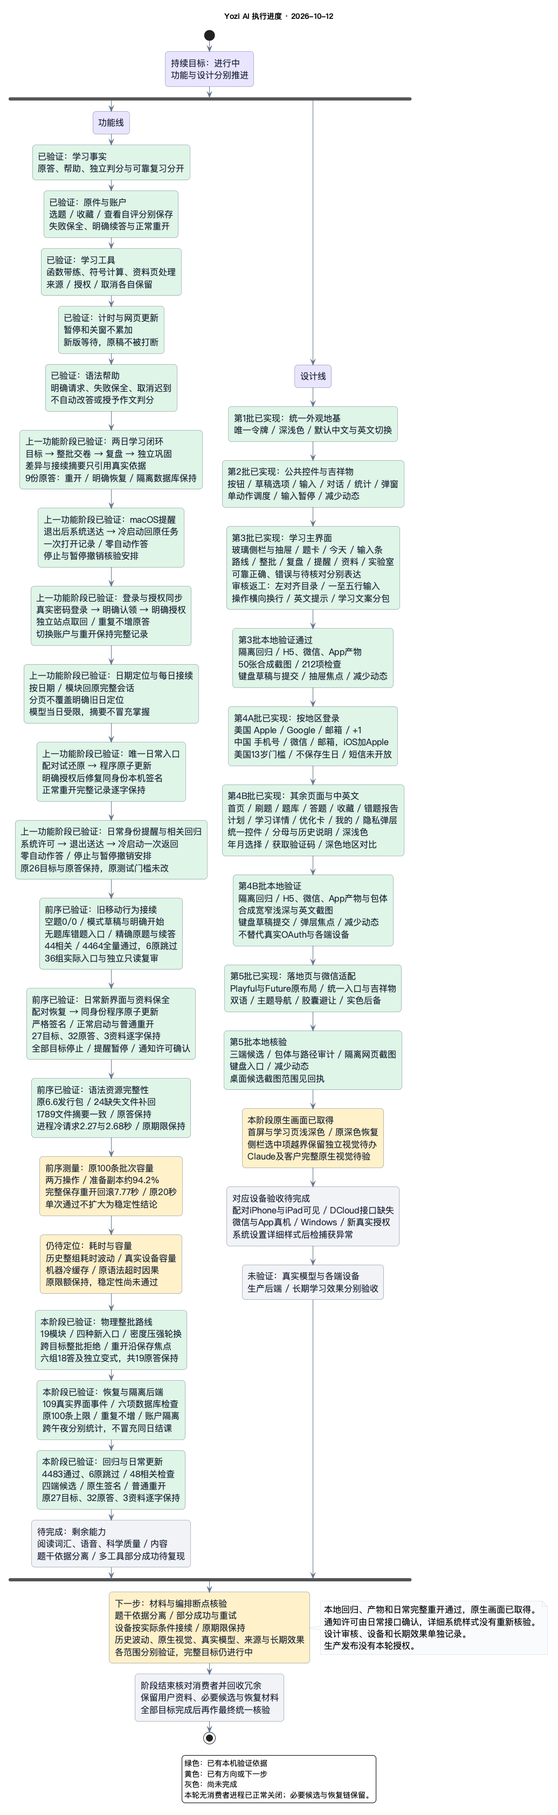
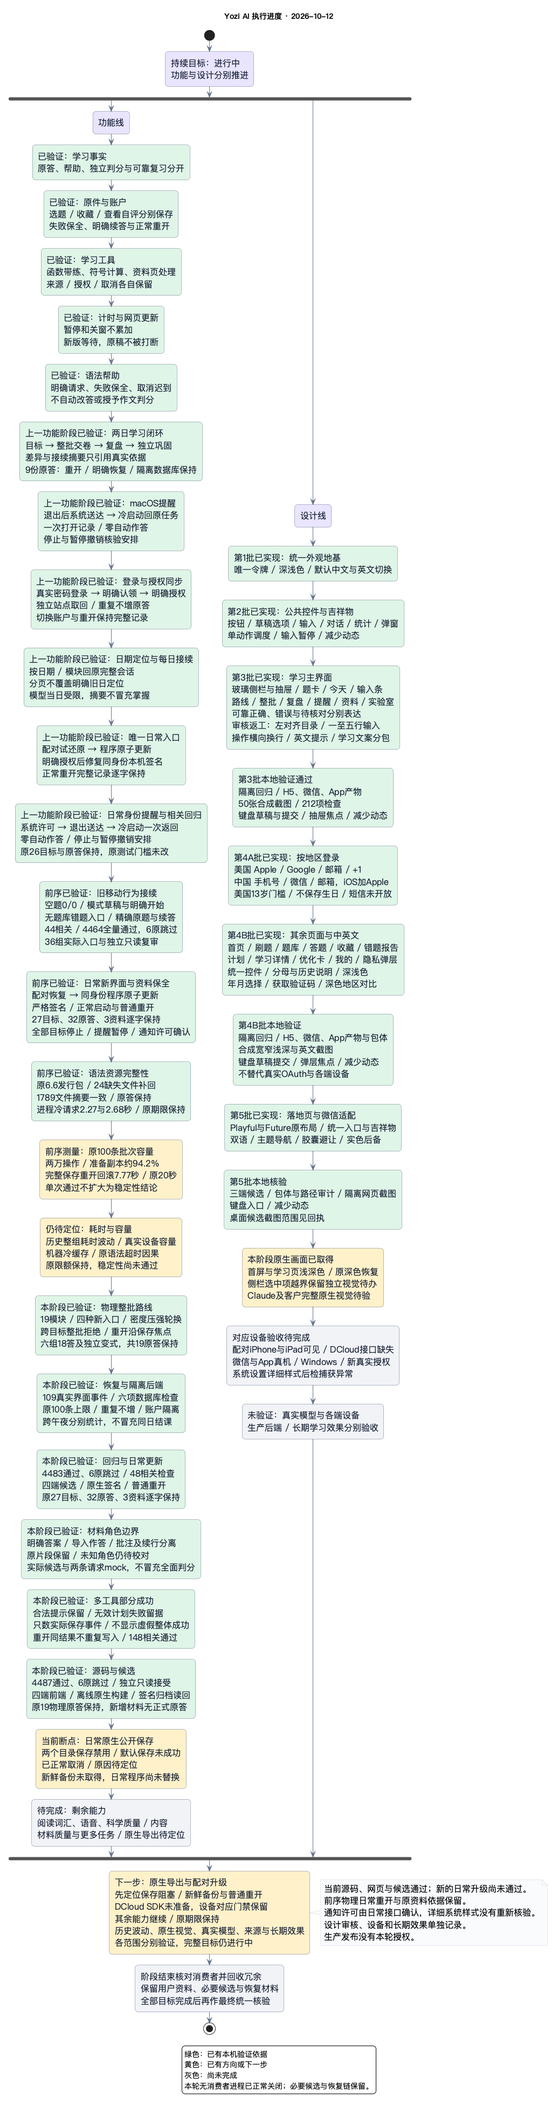
fix: separate material roles and report partial tool execution
Preserve labelled references outside fallback stems and options without changing original materials.
Record failed plans, show only saved operations, and keep recovery retries idempotent.

Verify4487 tests,148 related checks, real material UI and four frontend candidates.
Retain the accepted daily app while public native backup saving is blocked; document the pending gate.

Changed region(s): [[0.0309, 0.0, 0.9585, 0.9988], [0.4019, 0.1873, 0.742, 0.7179]]

diff --git a/tests/unit/learning-material-store.spec.js b/tests/unit/learning-material-store.spec.js
@@ -546,6 +546,68 @@ describe('私人资料和实际 Store 纵向闭环', () => {
     });
     expect(candidate.uncertainties).toHaveLength(1);
   });
+  it('无题干标签时保留原资料，候选题干与选项不混入明确答案、作答及批注区域', () => {
+    const segment = {
+      content:
+        '求速度。\nA.3m/s\nB.4m/s\n答案：PRIVATE_ANSWER\nC.答案区域中的选项\n补充答案依据\n我答：PRIVATE_ATTEMPT\n教师批注：PRIVATE_ANNOTATION',
+      reviewRequired: false
+    };
+    const original = segment.content;
+    const candidate = structureMaterialCandidate(segment);
+    expect(candidate).toMatchObject({
+      prompt: '求速度。\nA.3m/s\nB.4m/s',
+      options: ['A.3m/s', 'B.4m/s'],
+      reference: 'PRIVATE_ANSWER',
+      userAnswer: 'PRIVATE_ATTEMPT',
+      annotation: 'PRIVATE_ANNOTATION',
+      rolesConfirmed: false
+    });
+    expect(segment.content).toBe(original);
+    expect(structureMaterialCandidate({ content: '答案：PRIVATE_ONLY' }).prompt).toBe('');
+  });
+  it.each(['', '题目：'])('候选%s题干发送边界保留来源，独立参考、导入作答和批注不进入模型请求', async (label) => {
+    uni.setStorageSync('EXAM_USER_ID', 'material-context-owner');
+    uni.setStorageSync('EXAM_TOKEN', 'isolated-placeholder-token');
+    const store = useConversationLearningStore();
+    store.start('理解速度');
+    const text = `${label}求速度。\nA.3m/s\nB.4m/s\n答案：PRIVATE_ANSWER\n我答：PRIVATE_ATTEMPT\n教师批注：PRIVATE_ANNOTATION`;
+    store.importText(text);
+    const material = store.state.materials.at(-1);
+    const segment = material.segments[0];
+    const candidate = structureMaterialCandidate(segment);
+    store.structureQuestion(material.id, { ...candidate, segmentId: segment.id, type: 'choice' });
+    store.modelId = 'explicit-model';
+    store.selectedMode = 'cloud';
+    store.sharingAllowed = true;
+    const transport = vi.spyOn(uni, 'request').mockImplementation((options) => {
+      const payload = options.data;
+      expect(payload.learningContext.question).toMatchObject({
+        prompt: candidate.prompt,
+        options: ['A.3m/s', 'B.4m/s'],
+        source: { materialId: material.id, segmentId: segment.id, kind: 'private_material' }
+      });
+      expect(JSON.stringify(payload)).not.toContain('PRIVATE_');
+      options.success({ data: { success: true, data: { message: '先确定时间与距离的单位。', tools: [] } } });
+      return { abort: vi.fn() };
+    });
+    try {
+      await store.send('讨论题意', { discussionOnly: true });
+      expect(transport).toHaveBeenCalledOnce();
+      expect(store.error).toBe('');
+      expect(store.state.materials.at(-1).segments[0].content).toBe(text);
+      expect(store.activeQuestion).toMatchObject({
+        reference: { content: 'PRIVATE_ANSWER', verified: false },
+        importedAnswer: 'PRIVATE_ATTEMPT',
+        teacherAnnotation: 'PRIVATE_ANNOTATION',
+        validation: null
+      });
+      expect(store.state.attempts).toHaveLength(0);
+      expect(store.active.pendingHints).toHaveLength(1);
+    } finally {
+      transport.mockRestore();
+      store.$dispose();
+    }
+  });
   it('直接讲解实际执行并记录提示，修正与重做不同；调整目标影响后续任务', async () => {
     const store = useConversationLearningStore();
     store.start('12 + 8');

diff --git a/src/stores/modules/conversation-learning.js b/src/stores/modules/conversation-learning.js
@@ -2091,24 +2091,36 @@ export const useConversationLearningStore = defineStore('conversation-learning',
       lockedMethod: request.lockedMethod,
       signal
     };
-    for (const [index, call] of (data.tools || []).entries()) {
-      assert(
-        ['progress', 'visualize', 'method', 'hint', 'assess', 'plan'].includes(call.name),
-        'FORBIDDEN',
-        '模型工具未获授权'
-      );
-      const outcome = executeLearningTool(learningRepository, { ...call, id: `${id}:tool:${index}` }, context);
+    try {
+      for (const [index, call] of (data.tools || []).entries()) {
+        assert(
+          ['progress', 'visualize', 'method', 'hint', 'assess', 'plan'].includes(call.name),
+          'FORBIDDEN',
+          '模型工具未获授权'
+        );
+        const outcome = executeLearningTool(learningRepository, { ...call, id: `${id}:tool:${index}` }, context);
+        refresh();
+        if (call.name === 'visualize')
+          visualRequest.value = {
+            id: `${id}:tool:${index}`,
+            recipe: outcome.result,
+            conversationId,
+            questionKey: requestedQuestionKey,
+            owner: state.value.owner,
+            learningContext: writingContext(),
+            context: recordContext()
+          };
+      }
+    } catch (e) {
       refresh();
-      if (call.name === 'visualize')
-        visualRequest.value = {
-          id: `${id}:tool:${index}`,
-          recipe: outcome.result,
-          conversationId,
-          questionKey: requestedQuestionKey,
-          owner: state.value.owner,
-          learningContext: writingContext(),
-          context: recordContext()
-        };
+      const saved = state.value.events.filter(
+        (event) =>
+          event.id.startsWith(`${id}:tool:`) &&
+          ['hint.add', 'strategy.set', 'assessment.assist', 'plan.set'].includes(event.type)
+      ).length;
+      // 只从实际保存的事件说明部分成功，不能显示模型事先声称的整体成功。
+      if (saved) e.message = `已保存${saved}项操作，后续操作未完成：${e.message}`;
+      throw e;
     }
     // 不信任工具执行前生成的成功宣称；教学文本仅表达建议，实际状态在固定进度视图显示。
     const safeMessage = safeLearningMessage(reading ? visualReadingText(reading) : data.message);
@@ -2274,6 +2286,10 @@ export const useConversationLearningStore = defineStore('conversation-learning',
       applyModelResult(result.data, { ...pending, id: pending.requestId }, requestController.signal);
       error.value = '';
       return result;
+    } catch (e) {
+      if (state.value.owner === owner && selectedConversationId.value === pending.conversationId)
+        error.value = e.message || '模型任务未完成';
+      throw e;
     } finally {
       if (controller === requestController) {
         busy.value = false;

diff --git a/tests/unit/learning-stream-store.spec.js b/tests/unit/learning-stream-store.spec.js
@@ -200,6 +200,67 @@ function setup(platform = 'h5') {
     }
   };
 }
+it('合法提示后无效计划保留部分成功、失败收据和重开重试的幂等边界', async () => {
+  const harness = setup(),
+    { store } = harness;
+  store.start('12 + 8');
+  const question = store.activeQuestion;
+  const originalPlans = JSON.stringify(store.state.plans);
+  const tools = [
+    { name: 'hint', arguments: { content: '先把个位相加，再看十位。', level: 1 } },
+    { name: 'plan', arguments: { tasks: [{ title: '独立检验', questionKey: 'missing:1' }] } }
+  ];
+  const send = store.send('帮我组织下一步', { id: 'partial-tools', discussionOnly: true });
+  await flushPromises();
+  harness.preview();
+  harness.complete({ message: '提示与计划都已保存。', tools });
+  await send;
+  expect(store.activeQuestion).toEqual(question);
+  expect(store.active.pendingHints).toHaveLength(1);
+  expect(JSON.stringify(store.state.plans)).toBe(originalPlans);
+  expect(store.state.attempts).toHaveLength(0);
+  expect(store.active.messages.some((m) => m.content === '提示与计划都已保存。')).toBe(false);
+  expect(store.state.executions).toEqual([
+    expect.objectContaining({ id: 'partial-tools:tool:0:receipt', tool: 'hint', status: 'success' }),
+    expect.objectContaining({
+      id: 'partial-tools:tool:1:failure',
+      tool: 'plan',
+      status: 'failed',
+      errorCode: 'INVALID_INPUT'
+    })
+  ]);
+  expect(store.error).toContain('已保存1项操作');
+  const snapshot = store.exportData();
+  setActivePinia(createPinia());
+  const reopened = useConversationLearningStore();
+  stores.push(reopened);
+  reopened.selectedMode = 'cloud';
+  reopened.modelId = 'fixture';
+  reopened.sharingAllowed = true;
+  vi.spyOn(uni, 'request').mockImplementation((options) => {
+    expect(options.data).toEqual({ action: 'result', requestId: 'partial-tools' });
+    options.success({
+      data: {
+        success: true,
+        reused: true,
+        data: {
+          requestId: 'partial-tools',
+          requestBinding: harness.request.requestBinding,
+          modelId: 'fixture',
+          model: 'explicit',
+          message: '提示与计划都已保存。',
+          tools
+        }
+      }
+    });
+    return { abort: vi.fn() };
+  });
+  await expect(reopened.recoverModelResult()).rejects.toThrow('已保存1项操作');
+  expect(reopened.exportData()).toBe(snapshot);
+  expect(reopened.error).toContain('后续操作未完成');
+  expect(reopened.active.pendingHints).toHaveLength(1);
+  expect(harness.fetch).toHaveBeenCalledOnce();
+});
 it('预览只在临时区域出现，完整终止前无计划/工具/教学事实；重复消息不重扣', async () => {
   const harness = setup(),
     { store } = harness;

diff --git a/src/services/learning/learning-tools.js b/src/services/learning/learning-tools.js
@@ -86,26 +86,26 @@ export function executeLearningTool(repository, call, context) {
     const session = repository.read().conversations.find((c) => c.id === context.conversationId);
     assert(session && !session.stopped, 'STOPPED', '没有当前学习任务或任务已停止，未生成新演示');
   }
-  if (call.name === 'plan') {
-    const state = repository.read();
-    assert(
-      Array.isArray(call.arguments.tasks) && call.arguments.tasks.length <= 20,
-      'RESOURCE_LIMIT',
-      '模型每次最多组织20项任务'
-    );
-    assert(
-      call.arguments.tasks.every(
-        (t) => !t.questionKey || state.questions.some((q) => questionKey(q) === t.questionKey)
-      ),
-      'INVALID_INPUT',
-      '计划不能关联不存在的题目'
-    );
-  }
   const started = Date.now();
   let result;
   let operationReused = false;
   let legacyAssessmentReplay = false;
   try {
+    if (call.name === 'plan') {
+      const state = repository.read();
+      assert(
+        Array.isArray(call.arguments.tasks) && call.arguments.tasks.length <= 20,
+        'RESOURCE_LIMIT',
+        '模型每次最多组织20项任务'
+      );
+      assert(
+        call.arguments.tasks.every(
+          (t) => !t.questionKey || state.questions.some((q) => questionKey(q) === t.questionKey)
+        ),
+        'INVALID_INPUT',
+        '计划不能关联不存在的题目'
+      );
+    }
     if (call.name === 'visualize') result = visualRecipe(call.arguments);
     else if (call.name === 'progress') {
       const state = repository.read();

diff --git a/src/services/learning/material-intake.js b/src/services/learning/material-intake.js
@@ -86,10 +86,18 @@ export function structureMaterialCandidate(segment) {
       .find((line) => pattern.test(line))
       ?.replace(pattern, '')
       .trim() || '';
-  const prompt = role(/^(?:题目|问题|题干)[：:]\s*/);
+  const questionMarker = /^\s*(?:题目|问题|题干)[：:]\s*/;
+  const prompt = role(questionMarker);
+  const questionStart = lines.findIndex((line) => questionMarker.test(line));
+  const candidateLines = lines.slice(Math.max(0, questionStart));
+  const metadataStart = candidateLines.findIndex((line) =>
+    /^\s*(?:我答|用户作答|学生作答|教师批注|批注|参考答案|标准答案|答案)[：:]/.test(line)
+  );
+  // 原片段完整保留；明确的答案/作答/批注区域及其续行不回退为候选题干或选项。
+  const questionLines = metadataStart < 0 ? candidateLines : candidateLines.slice(0, metadataStart);
   return {
-    prompt: prompt || segment.content,
-    options: lines.filter((line) => /^[A-H][.、．]\s*/.test(line)),
+    prompt: prompt || questionLines.join('\n').trim(),
+    options: questionLines.filter((line) => /^[A-H][.、．]\s*/.test(line)),
     userAnswer: role(/^(?:我答|用户作答|学生作答)[：:]\s*/),
     annotation: role(/^(?:教师批注|批注)[：:]\s*/),
     reference: role(/^(?:参考答案|标准答案|答案)[：:]\s*/),

diff --git a/docs/13-DEVELOPMENT-PLAN.md b/docs/13-DEVELOPMENT-PLAN.md
@@ -42,19 +42,19 @@
 4. 提醒至少分别记录设置成功、到期触发、平台接纳、真实送达与点击返回；不把页内提示或API返回冒充关闭应用后的系统通知。平台申请/权限/设备实际不可用只阻塞对应验收，其余工作继续。
 5. 同步受影响的01/03/04/05/06/07合同、12变更、本计划与既有PlantUML进度图；每个独立阶段用业务语言汇报结果、依据和剩余项。完成矩阵保留未验证项，完整目标未满足时继续进行，不以测试数量或构建全绿替代闭环。
 
-## 最新阶段的费曼汇报：物理路线与重开接续
+## 最新阶段的费曼汇报：材料角色、部分成功与原生导出断点
 
-学习者现在可以从路线进入恒定合力、初速度与分段运动、速度—时间图、功与动能，并集中交卷。密度和压强不再只重复一种求解目标；沿原固定规则给出反馈，原答、提示经历与待核对仍各自保存。题目范围有界，模块多了不等于全课程质量或长期掌握已经通过。
+材料不能把末尾的答案当成要作答的题干。一条合成资料复现了这个问题：没有“题干”标签时，答案、纸面作答和批注一起进入候选题干。现在只分离已识别的角色区域，原资料完整保留，未知内容仍需校对。网页实际导入、明确进入练习后仍显示待核对，没有把纸面作答变成正式成绩；两条实际请求mock也确认独立答案字段没有发给模型。
 
-实际训练又暴露出两处断点：科学题能被另一目标绑定，重开时旧批次遮住已经保存的独立变式。现在前者整批拒绝，后者按保存的当前题继续显示，明确旧日定位仍优先，停止没有被解除。网页实际交了六组18答，再从错答进入独立变式明确作答；合计19原答、109事件，正常重开与三次公开导出逐字保持。过程跨真实午夜，统计按前日13答、次日6答保留，未把六组提交算成同日结课。
+另一处断点是一轮先保存提示，后续计划失败。原来只看见后一个错误，缺少失败收据；现在合法提示保留，错误说明只根据实际保存事件给出部分成功，拒绝模型提前宣称全部成功。普通重开取回同一结果不重复保存提示、计划或收据，原答与停止保持。
 
-日常电脑程序也沿唯一入口更新并普通退出重开。查看新增模块后取消草稿，27个原目标、32份原答、3份资料及全部题目、计划、复习逐字保持；目标仍停止，提醒仍暂停。程序回滚与资料试还原先核验，当前只保留签名归档及必要配对恢复材料。
+相关148项、全量4487项回归通过，6项原跳过；独立只读复核接受修复，四端前端和离线原生候选通过。网页公开导出核对19份前序物理原答及事件/计划/复习保持；新增一份合成资料和一题，零正式原答。前序19模块、六物理组和日常27目标/32原答/3资料的已验依据继续保留。
 
-本阶段软件范围通过：4483项回归与48项相关检查、四端前端和离线原生构建、实际网页与隔离真实数据库通过，独立只读复核接受修复。App连接器预检确认配对设备可见，但原生SDK接口未配置，尚未装配插件；Windows、微信/App设备、真实模型、题源、完整视觉与生产仍分别待验。本次临时回放误触发环境加载和失败断言的私有正文日志均已纠正，具体边界记在变更与回执中。
+新的日常更新还没有完成：原生公开保存窗口在两个已知目录都禁用保存，默认保存也未成功，已正常取消。没有取得本轮新鲜资料备份，就没有替换日常程序；当前物理阶段已验入口、原资料和恢复链保持，新签名候选留为待验归档。该保存阻塞原因仍待定位，不能把源码和构建通过算成新的原生资料验收。
 
-下一步先验证材料的题干与答案依据分离，以及一轮多工具中部分成功、后续失败时的真实回执和重复请求；这两项目前是待复现检查点，不能提前宣称有缺陷或已修复。沿现有实现继续，不增加框架；设备只执行已具备条件的范围，完整目标保持进行中。前序语法资源已补全，历史耗时波动仍待因果定位，不放宽原期限。
+客户确认DCloud SDK尚未准备，微信/App对应真机门禁保留。下一步先定位原生导出、补配对备份和普通重开，再沿既有矩阵推进可独立执行的能力；Windows、真实模型、来源、完整视觉、生产与长期效果继续分别收证。前序语法资源已补全，耗时波动还没有因果结论，原期限不放宽，完整目标仍进行中。
 
-依据见[本阶段变更](12-CHANGELOG.md#2026-10-12物理整批路线归属与重开接续)、[现有回执](../tmp/stage1-mobile-20261011/verification.md)、[当前产物与恢复映射](08C-SCRIPTS-REFERENCE.md#当前候选与本机资源)和[设计规则](07-STYLING-SYSTEM.md)。功能、设计、设备及长期效果分别收证，整体闭环尚未完成。
+依据见[本阶段变更](12-CHANGELOG.md#2026-10-12材料角色与部分成功回执原生日常升级待完成)、[现有回执](../tmp/stage1-mobile-20261011/verification.md)、[当前候选及待验映射](08C-SCRIPTS-REFERENCE.md#当前候选与本机资源)和[设计规则](07-STYLING-SYSTEM.md)。前序临时回放的环境加载与私有断言日志失误已经纠正，历史记录保持，不追认无读取。
 
 ![当前PlantUML进度图](diagrams/13-progress.png)
 

diff --git a/docs/12-CHANGELOG.md b/docs/12-CHANGELOG.md
@@ -1,5 +1,17 @@
 # 重要变更
 
+## 2026-10-12：材料角色与部分成功回执（原生日常升级待完成）
+
+真实红测复现同轮合法提示已保存、后续计划引用不存在题目被拒绝，却缺失败收据且只显示后一个错误。计划业务校验现纳入失败收据；界面只按本请求实际保存的提示/策略/评估/计划事件说明部分成功，不采用模型事先宣称的整体成功，也不把进度读取或演示算为已保存学习操作。普通重开取回同一结果时，提示、成功/失败收据与完整导出不增加；恢复失败仍明确显示。权限、三工具预算、五秒期限、模型20项计划及原作答规则保持。
+
+另复现无题干标签时，明确答案/纸面作答/批注及续行被整段回退成候选题干；其内部选项也被当作题目选项。现在只分离这些已识别角色，保留原片段和独立字段，未知内容仍需校对。带标签/无标签两条实际请求mock确认独立参考、导入作答、批注不进入请求题目字段，原件未改，未制造正式原答或可靠判分。任意量表文字和同目标当日消息仍沿既有教学合同，不推断为全面自动分离或错误判分。
+
+实际网页正常关闭重开接纳新版，从新合成目标导入材料、核对四角色、明确进入练习，显示待核对并停止；全部19份前序物理原答及原事件/复习/计划逐项保持，新增1份合成资料、1题、0正式原答。实际候选截图和公开导出见[现有阶段回执](../tmp/stage1-mobile-20261011/verification.md)。相关4文件148项、最终全量266文件/4487项通过，1文件/6项原跳过，329.54秒；独立只读复审接受增量。四端前端和离线原生构建通过，微信333文件1,843,946字节、媒体19文件181,028字节，App产物0阻塞。
+
+签名候选严格校验、完整归档读回和上一物理阶段程序的独立回滚归档通过。日常程序的新鲜公开导出在原配对目录及当前阶段目录均显示保存/New Folder禁用，文件名确认和默认保存未成功，已正常取消，没有备份文件生成；原因尚未定位。因此尚未替换日常程序，不把构建或源码通过冒充新的日常原生验收。当前已验物理程序、原资料与恢复链保持；新候选作为待验归档保留，映射见[08C](08C-SCRIPTS-REFERENCE.md#当前候选与本机资源)。
+
+客户确认DCloud原生SDK尚未准备，对应微信/App设备门禁保持。Windows、真实模型语义、公共题源、完整视觉、长期效果及受保护生产仍分别待验；整体持续目标保持进行中。下一步先定位原生公开保存阻塞并补新鲜配对备份与日常更新，再按原矩阵继续；不读取私密环境或凭据、不推送/部署/服务器操作、不新增框架。
+
 ## 2026-10-12：物理整批路线、归属与重开接续
 
 既有科学工厂已支持的恒定合力、初速度与分段运动、速度—时间图、功与动能，现能从学习路线进入；模块由15扩至19。密度和压强沿原工厂轮换不同求解目标，第100题组仍保持有界。修复科学题可被另一目标题组绑定，以及普通重开时旧批次遮住保存的独立变式：跨目标整批拒绝，显示按保存焦点恢复，明确旧日定位仍优先。沿原服务、题卡、固定判分、停止和恢复合同，没有新增依赖或公共题源。

diff --git a/docs/08C-SCRIPTS-REFERENCE.md b/docs/08C-SCRIPTS-REFERENCE.md
@@ -6,6 +6,8 @@
 
 当前候选已接续至 `tmp/stage1-mobile-20261011/`：前端 `dist/build/{h5,mp-weixin,app,desktop}`、后端 `backend/`、共享依赖的隔离构建源码 `build-source/`；当前签名程序归档固定为 `desktop-candidate.zip`，不保留可启动候选App。当前程序摘要及归档清单见该目录 `native-candidate-receipt.json`，原日常资料的逐字前后/重开核验和配对试还原见 `verification.json`。上一阶段成功程序在 `tmp/visual-build-20261001/resume-rubric-evidence-20261004/yozi-before/stage1-mobile-20261011/native/Yozi AI.stage1.app.zip`，与该目录原资料导出配对；更早原程序归档保留为必要恢复基线。以下旧候选及运行时只按仍有效的回退用途保留，不作为当前产物。
 
+随后材料/编排增量已更新上述四端前端目录，后端共享合同没有变化；签名原生候选暂存 `desktop-candidate.next.zip`，全部文件/权限读回通过。日常原生导出在两个已知目录均显示保存禁用，已正常取消；尚无本轮新鲜资料导出，因此未替换日常程序，也未把 `.next.zip` 提升为当前原生已验归档。当前 `desktop-candidate.zip` 和日常入口仍对应物理阶段；该阶段成功程序另归档至同恢复目录 `Yozi AI.physics.app.zip`，供后续升级的配对回滚。客户确认DCloud SDK尚未准备，对应设备门禁保持。
+
 2026-10-12 的App连接器 `--build-only` 预检确认本机Apple SDK和配对iPhone/iPad可见，但DCloud Android类路径及iOS `DCUniModule.h` 未配置，未装配出插件。只阻塞对应原生设备验收；不绕过历史下载限制、不升级/恢复/重新配对设备。微信预算脚本按cwd下的 `dist/build/mp-weixin` 检查，不接受 `UNI_OUTPUT_DIR`；隔离候选须在上述阶段目录运行。临时Vite回放必须显式 `configFile:false`、`envDir:false`、`optimizeDeps:{noDiscovery:true,include:[]}`，避免默认环境加载和全仓入口扫描。
 
 本机验收产物都在忽略目录 `tmp/visual-build-20261001/resume-rubric-evidence-20261004/`，资源身份与回收记录沿其中的 `server.json`。当前前端与后端候选为 `journey-candidate/`（`dist/build/{h5,h5-ui-sync,desktop,mp-weixin,app}`、`backend`、实际两日恢复备份与原生归档），上一完整候选 `grammar-help-candidate/` 保留为回退，`bank-original-candidate/backend` 为必要后端基线；更早 `remaining-view-candidate/dist/` 已由两份候选覆盖，核对无消费者后已回收。Mac 原生构建继续复用 Rust 缓存 `desktop-material-prerequisite-target/`；独立 `cn.wangshiliang.wenli.qa.journey` 核验后归档为 `journey-candidate/desktop-qa.zip`，核验App已撤销注册并回收，不保留第二个可见入口。日常程序先仅更新可执行文件，后经客户明确授权修复同身份本机签名；完整重开记录及日常身份的退出提醒/一次返回均已核对，配对恢复链在`yozi-before/learning-journey/native/`。可选运行时在 `languagetool-trial/`、`docling-trial/`、`sympy-trial/`，阶段进度图渲染器在 `plantuml-renderer/`，Apple Vision CLI 在 `tmp/apple-vision-builds/`。日常程序 `/Users/blackdj/Applications/Yozi AI.app` 的回滚归档在 `yozi-before/*/native/`，按"最近两份已试还原"及必要增量依赖链保留。

diff --git a/docs/04-API-DOCUMENTATION.md b/docs/04-API-DOCUMENTATION.md
@@ -45,6 +45,8 @@ learning.progress、learning.visualize、learning.focus、learning.submit、lear
 
 策略调整保存 evidenceIds 与短理由，失败保存真实错误收据。模型要求“已加入错题”不能替代成功执行结果；工具结果渲染不执行 HTML/脚本。
 
+同轮多个模型工具依次执行，已保存的合法操作在后续失败时保留；计划的题目/题量校验失败也保存失败收据。部分成功说明只数本请求实际保存的提示、策略、评估或计划事件，不数进度读取、演示和模型宣称；失败不显示预生成的整体成功回复。普通重开读取同一已完成结果时，原操作与成功/失败收据按原编号复用，不重写帮助、原答或计划，恢复失败在当前对话明确显示。权限、三次工具预算、五秒期限和20项模型计划上限保持。
+
 `teaching-followup-v1` 是宿主只读派生，不开放任意模型写入。输入为本账户现有状态和可选conversationId/scope/limit（1—100，默认20）；输出contract/total/rows，关联实际教学messageId/executionId、题版本、方法、后续状态/分母/最多6个尝试证据ID，不返回原聊天正文。按事件顺序只关联最新成功教学、同对话原题或明确关联的同学科变式；父链最多16层，循环/缺父不归因。旧备份的历史交付明确historyOnly，不冒充本轮执行。progress工具读取同一函数，模型上下文最多3段当前范围观察，仍受原上下文与任务预算限制；无网络、无额外模型额度或费用。
 
 新strategy.set可选source为self_report/observed/model、conversationId绑定已有对话，旧未带字段事件继续兼容。用户明确指定的教法/节奏优先；宿主保留同对话的方法锁直到用户再调整，不让自动观察覆盖。模型method违反锁即拒绝，相同方法只返回现有策略及执行收据，不覆盖用户难度/理由/来源。两次可靠错答触发先修，实际教学后仍错再改变表达与步骤；未实际交付不能仅凭方法标签判断效果，提示正确只提示后续独立检验。

diff --git a/docs/06-FRONTEND-REFERENCE.md b/docs/06-FRONTEND-REFERENCE.md
@@ -18,6 +18,10 @@
 
 ## 入口、平台能力与通用界面
 
+私人材料候选只分离已识别的题干/答案/纸面作答/批注标签。没有题干标签时，题干回退不包含明确答案、作答或批注区域及其续行；这些区域中的选项也不进入题目选项。原片段完整保留，未知角色仍由用户校对；独立参考、导入作答、教师批注和validation不进入普通教学请求的题目字段。量表与同目标当日消息仍沿原教学合同，不能因此宣称任意材料均自动分离或可靠判分。
+
+多工具后续失败会说明本请求已保存的操作数量并显示真实错误；失败模型回复不冒充完整成功。保存的提示继续计入帮助，普通重开取回同一结果不重复保存。网页材料实操与请求mock、源码单测和日常原生资料核验分别成立，当前原生公开保存按钮受阻，日常升级待新鲜备份，现程序保持。
+
 ### 入口
 
 普通浏览器的原微信按钮已接网站扫码模式，微信内继续使用公众号模式；回调沿原登录分包、Auth Store 和 API。应用模式绑定初次同源随机上下文，失败可键盘重试，账户变化/离开页面后的迟到回执拒绝保存。本轮实际网页验证协议门禁、缺配置提示、合成失败重试与成功返回、过期上下文拒绝和手机无横向溢出；真实微信仍待平台申请与发布。[人工配置指南](15-MANUAL-SETUP-GUIDE.md)。
